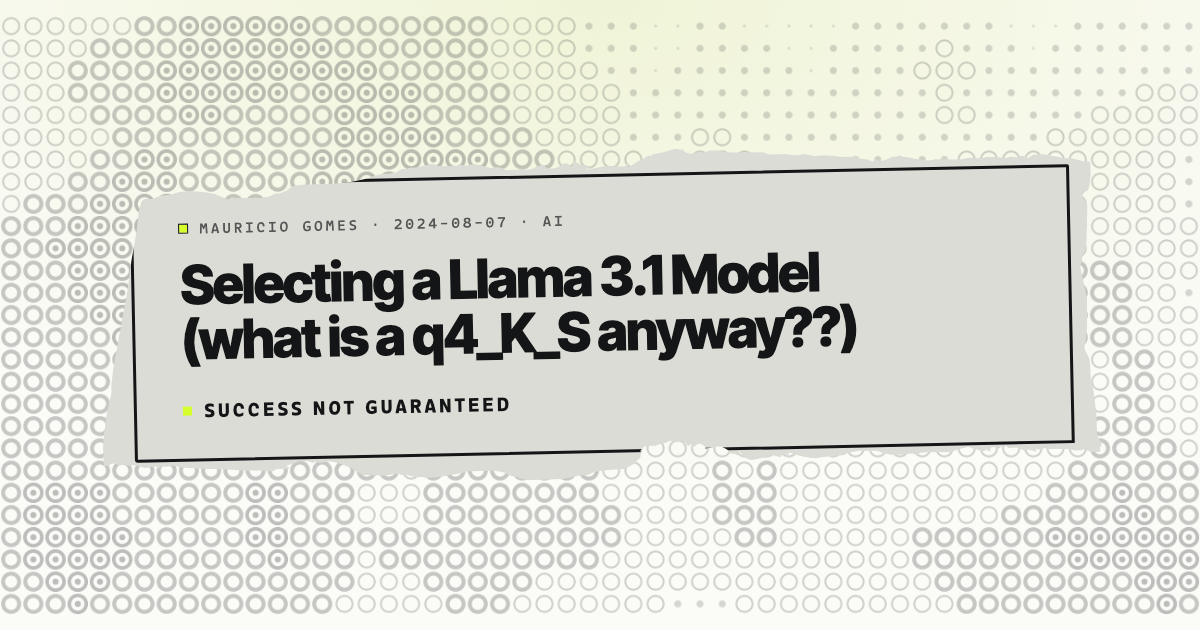
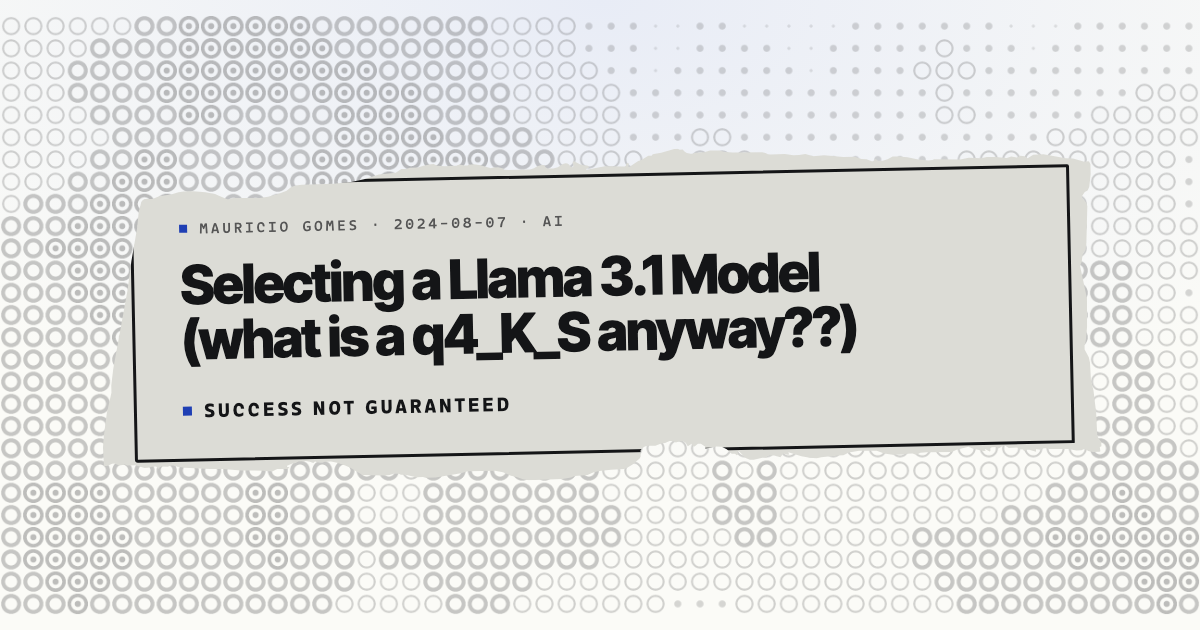
Swap the lime accent for ink blue
On paper the blue underlines links and floods them on hover with paper
text; in the dark it lifts to periwinkle, since dark blue vanishes on
near-black. The favicon and share cards follow.

Changed region(s): [[0.3083, 0.0, 0.6783, 0.181]]

diff --git a/assets/css/main.css b/assets/css/main.css
@@ -26,7 +26,7 @@
   color-scheme: light dark;
 
   --bg: #fbfbf7;
-  --glow: #f0f4d6;                         /* lime-tinted halo behind the masthead */
+  --glow: #e8ecf6;                         /* blue-tinted halo behind the masthead */
   --fg: #141517;                           /* ink: titles, links, chips, masthead */
   --fg-strong: #141517;                    /* h2+, strong: ink here, white in dark */
   --prose: #2a2c30;                        /* body copy sits a step below the ink */
@@ -40,18 +40,18 @@
   --code-border: #e3e3dc;
   --embed-a: #ecece6;                      /* stripes behind a loading embed */
   --embed-b: #f3f3ee;
-  --accent: #d4ff2b;
-  --on-accent: #141517;                    /* text on a lime fill, in both modes */
-  --marker-ring: #141517;                  /* the square gets an ink outline on paper only */
+  --accent: #1f3fb4;
+  --on-accent: #fbfbf7;                    /* text on an accent fill */
   --pill-bg: #141517;
   --pill-fg: #fbfbf7;
   --tear: #dcdcd6;                         /* the torn newsprint behind the wanted ad */
-  /* On paper the lime is a highlighter: it underlines links and floods
-     them on hover. Text stays ink. */
+  /* On paper the blue is a marker: it underlines links and floods them on
+     hover, turning the text paper-white. */
   --link-underline: 2px;
   --link-hover-bg: var(--accent);
-  --link-hover-fg: var(--fg);
+  --link-hover-fg: var(--on-accent);
   --pager-fg: var(--fg);
+  --pager-hover-fg: var(--on-accent);
   --pager-underline: var(--accent);
   --pager-hover-bg: var(--accent);
   --pager-hover-underline: var(--accent);
@@ -80,7 +80,10 @@
 @media (prefers-color-scheme: dark) {
   :root {
     --bg: #141517;
-    --glow: #24261c;
+    --glow: #1b1f2c;
+    /* Dark blue vanishes on near-black, so the dark accent is a light one. */
+    --accent: #8ea6ff;
+    --on-accent: #141517;
     --fg: #ececea;                         /* not pure white; less halation on OLED */
     --fg-strong: #fff;
     --prose: #d1d3cf;
@@ -94,16 +97,16 @@
     --code-border: #2a2d33;
     --embed-a: #1c1e22;
     --embed-b: #202227;
-    --marker-ring: transparent;
     --pill-bg: #ececea;
     --pill-fg: #141517;
     --tear: #2b2e34;
-    /* In the dark the lime is ink instead: it colors link hovers rather
-       than flooding them. A lime flood on near-black glares. */
+    /* In the dark the blue is ink instead: it colors link hovers rather
+       than flooding them. A flood on near-black glares. */
     --link-underline: 1px;
     --link-hover-bg: transparent;
     --link-hover-fg: var(--accent);
     --pager-fg: var(--accent);
+    --pager-hover-fg: var(--accent);
     --pager-underline: transparent;
     --pager-hover-bg: transparent;
     --pager-hover-underline: var(--accent);
@@ -209,7 +212,7 @@ strong, b {
   color: var(--fg-strong);
 }
 
-/* LINKS. The lime underline is the default; chrome links (masthead, nav,
+/* LINKS. The accent underline is the default; chrome links (masthead, nav,
    footer, meta, post rows) opt out below. There is no visited color: the
    design has one link treatment and history is not part of it. */
 a {
@@ -296,7 +299,7 @@ a:focus-visible {
   color: var(--on-accent);
 }
 
-/* META LINE. The lime marker square, then date and tags in tracked caps. */
+/* META LINE. The accent marker square, then date and tags in tracked caps. */
 .meta {
   margin: 0 0 24px;
   font: 500 12px / 1 MonoLisaCode, monospace;
@@ -323,7 +326,6 @@ a:focus-visible {
   width: 8px;
   height: 8px;
   background: var(--accent);
-  outline: 1px solid var(--marker-ring);
   display: inline-block;
   flex: none;
 }
@@ -483,7 +485,7 @@ a:focus-visible {
 .pager a:hover {
   background: var(--pager-hover-bg);
   text-decoration-color: var(--pager-hover-underline);
-  color: var(--pager-fg);
+  color: var(--pager-hover-fg);
 }
 
 /* ARCHIVE AND TAG PAGES reuse the rows under year headings. */
@@ -545,8 +547,8 @@ a.card:hover {
   color: var(--fg);
 }
 
-/* Hovering a card marks its title the way a prose link is marked: a lime
-   flood on paper, lime text in the dark. */
+/* Hovering a card marks its title the way a prose link is marked: a blue
+   flood on paper, blue text in the dark. */
 .card-title {
   display: block;
   margin: 8px 0 0;
@@ -670,7 +672,7 @@ a.card:hover .card-title > span,
 
 .rating .marker.on {
   background: var(--accent);
-  outline-color: var(--marker-ring);
+  outline-color: var(--accent);
 }
 
 /* OBJECTS. Each is drawn in em so one font-size scales the whole thing:
@@ -805,7 +807,7 @@ a.card:hover .obj-film {transform: rotate(0);}
 }
 
 /* A record sleeve with the disc half out. Hover pulls it a little further. */
-/* The disc's center sits past the sleeve's edge so half the lime label
+/* The disc's center sits past the sleeve's edge so half the label
    shows: the padding has to exceed half the disc's width. */
 .obj-music {padding-right: 40%;}
 

diff --git a/layouts/_partials/rating.html b/layouts/_partials/rating.html
@@ -1,4 +1,4 @@
-{{- /* Up to five marker squares, filled lime for the rating. */ -}}
+{{- /* Up to five marker squares, filled in the accent for the rating. */ -}}
 {{- with .Params.rating }}
 <span class="rating" role="img" aria-label="{{ . }} out of 5">
   {{- range seq 5 }}<span class="marker{{ if le . (int $.Params.rating) }} on{{ end }}"></span>{{ end -}}

diff --git a/tools/ogcard/render.py b/tools/ogcard/render.py
@@ -32,7 +32,7 @@ WORKERS = 4
 # transparency. The ground color repeats favicon.svg's on purpose; it is the
 # only place outside that file that knows it.
 ICONS = {
-    "apple-touch-icon.png": (180, False, '<body style="margin:0;background:#141517">'
+    "apple-touch-icon.png": (180, False, '<body style="margin:0;background:#1f3fb4">'
                              '<img src="/favicon.svg" style="display:block;width:180px;height:180px"></body>'),
     "favicon.png": (64, True, '<body style="margin:0"><img src="/favicon.svg" style="display:block;width:64px;height:64px"></body>'),
 }

diff --git a/.claude/CLAUDE.md b/.claude/CLAUDE.md
@@ -55,11 +55,11 @@ Hugo renders math with **KaTeX at build time** via goldmark passthrough (`hugo.t
 
 `assets/css/main.css` is the whole design. Every color is a `:root` custom property, and dark mode is a `prefers-color-scheme` block that redeclares those tokens. There is no theme toggle and no theme JS. Add colors as tokens, not literals, or dark mode silently misses them.
 
-The look is the "studio" direction from the September 2026 mockups: one centered column on paper (`#fbfbf7`) or near-black (`#141517`), a lime accent (`#d4ff2b`), a faint lime halo behind the masthead, and Inter Tight for everything that is not prose. The two modes differ in *treatment* as well as color, and those differences are tokens too, so the dark block stays the single switch:
+The look is the "studio" direction from the September 2026 mockups: one centered column on paper (`#fbfbf7`) or near-black (`#141517`), an ink-blue accent (`#1f3fb4`, lifted to periwinkle `#8ea6ff` in the dark), a faint blue halo behind the masthead, and Inter Tight for everything that is not prose. The two modes differ in *treatment* as well as color, and those differences are tokens too, so the dark block stays the single switch:
 
-- **On paper the lime is a highlighter.** It underlines links 2px thick and floods a link on hover (`--link-hover-bg`).
-- **In the dark the lime is ink.** Underlines thin to 1px, and hover recolors the text instead of flooding it. The pager has its own `--pager-*` set for the same reason.
-- The marker square (`.marker`) gets an ink outline on paper (`--marker-ring`) and none in the dark, so both modes share one mark.
+- **On paper the blue is a marker.** It underlines links 2px thick and floods a link on hover (`--link-hover-bg`), turning the text paper-white (`--on-accent`).
+- **In the dark the blue is ink.** Underlines thin to 1px, and hover recolors the text instead of flooding it. The pager has its own `--pager-*` set for the same reason.
+- The accent was lime until November 2026. Dark blue can't do the two jobs lime did with one value (a flood needs light text on it, and dark blue vanishes on near-black), which is why `--accent` and `--on-accent` are redeclared in the dark block.
 
 Prose sits one step below the ink (`--prose`), while titles, links and code chips use `--fg` and h2+ and `strong` use `--fg-strong`, which is white in the dark and ink on paper.
 
@@ -95,7 +95,7 @@ Masonry is `assets/js/stream.js`, inlined right after the grid so it runs before
 
 The card pages load `assets/css/og.css` after a copy of `main.css` with its dark block stripped (`_partials/og-css.html`), because headless Chrome follows the Mac's color scheme and has no switch for it; the build fails loudly if that block's shape changes. Chrome writes the screenshot and then lingers, so the script kills it once the file lands.
 
-The favicon is `static/favicon.svg` (the lime marker square on an ink ground). `just og` also renders `favicon.png` and `apple-touch-icon.png` from it.
+The favicon is `static/favicon.svg` (the marker square in paper on an ink-blue ground). `just og` also renders `favicon.png` and `apple-touch-icon.png` from it.
 
 ### Syntax highlighting is generated
 
@@ -142,4 +142,4 @@ The known failure mode produces gaps around 72px.
 
 `just serve`, then drive Chrome DevTools MCP. `emulate` takes `colorScheme: "dark" | "light"` and a `viewport` string, which is the only sane way to check both schemes and the 720 / 900px breakpoints. If the MCP browser profile is locked by another session, headless Chrome through puppeteer-core with its own `userDataDir` and `emulateMediaFeatures` does the same job.
 
-Hover is where the two modes diverge most (lime flood on paper, lime text in the dark), so check a prose link, a post row, the pager and the Subscribe pill in both schemes.
+Hover is where the two modes diverge most (blue flood with paper text on paper, periwinkle text in the dark), so check a prose link, a post row, the pager and the Subscribe pill in both schemes.
